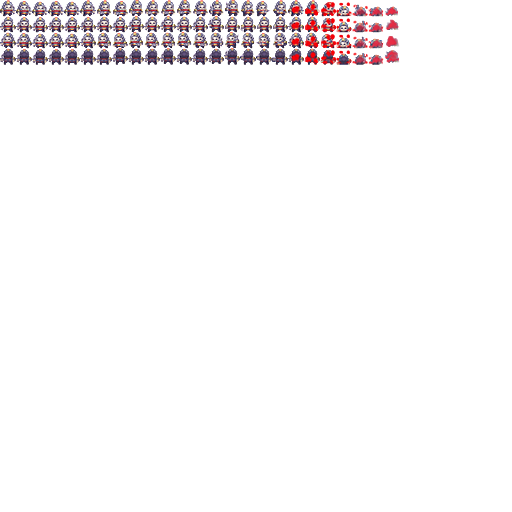
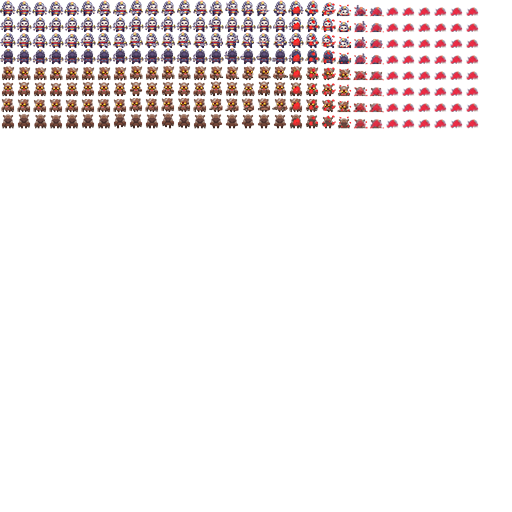
Playing around with colors.

Changed region(s): [[0.0, 0.0, 0.9375, 0.25]]

diff --git a/Terracotta/Terracotta/Simulation/GameColors.cs b/Terracotta/Terracotta/Simulation/GameColors.cs
@@ -40,9 +40,12 @@ namespace GpuSim
         public class UnitColor
         {
             public static readonly color
-                Player1 = rgb(0x917c82),
+                Player1 = rgb(0x89eae9),
+                Player2 = rgb(0xea8556),
+                //Player1 = rgb(0x917c82),
+                //Player2 = rgb(0xf0b021),
 
-                Player2 = new color(.2f, .7f, .2f, .5f),
+                //Player2 = new color(.2f, .7f, .2f, .5f),
                 Player3 = new color(.4f, .85f, .65f, .5f),
                 Player4 = new color(.4f, .4f, .85f, .5f);
 
@@ -83,8 +86,13 @@ namespace GpuSim
         public class TerritoryColor
         {
             public static readonly color
-                Player1 = new color(.7f, .3f, .3f, .5f),
-                Player2 = new color(.1f, .5f, .1f, .5f),
+                Player1 = rgb(0x0064dc),
+                Player2 = rgb(0xff3220),
+                //Player1 = rgb(0xc097a2),
+                //Player2 = rgb(0xfbc34b),
+
+                //Player1 = new color(.7f, .3f, .3f, .5f),
+                //Player2 = new color(.1f, .5f, .1f, .5f),
                 Player3 = new color(.3f, .7f, .55f, .5f),
                 Player4 = new color(.3f, .3f, .7f, .5f);
 
